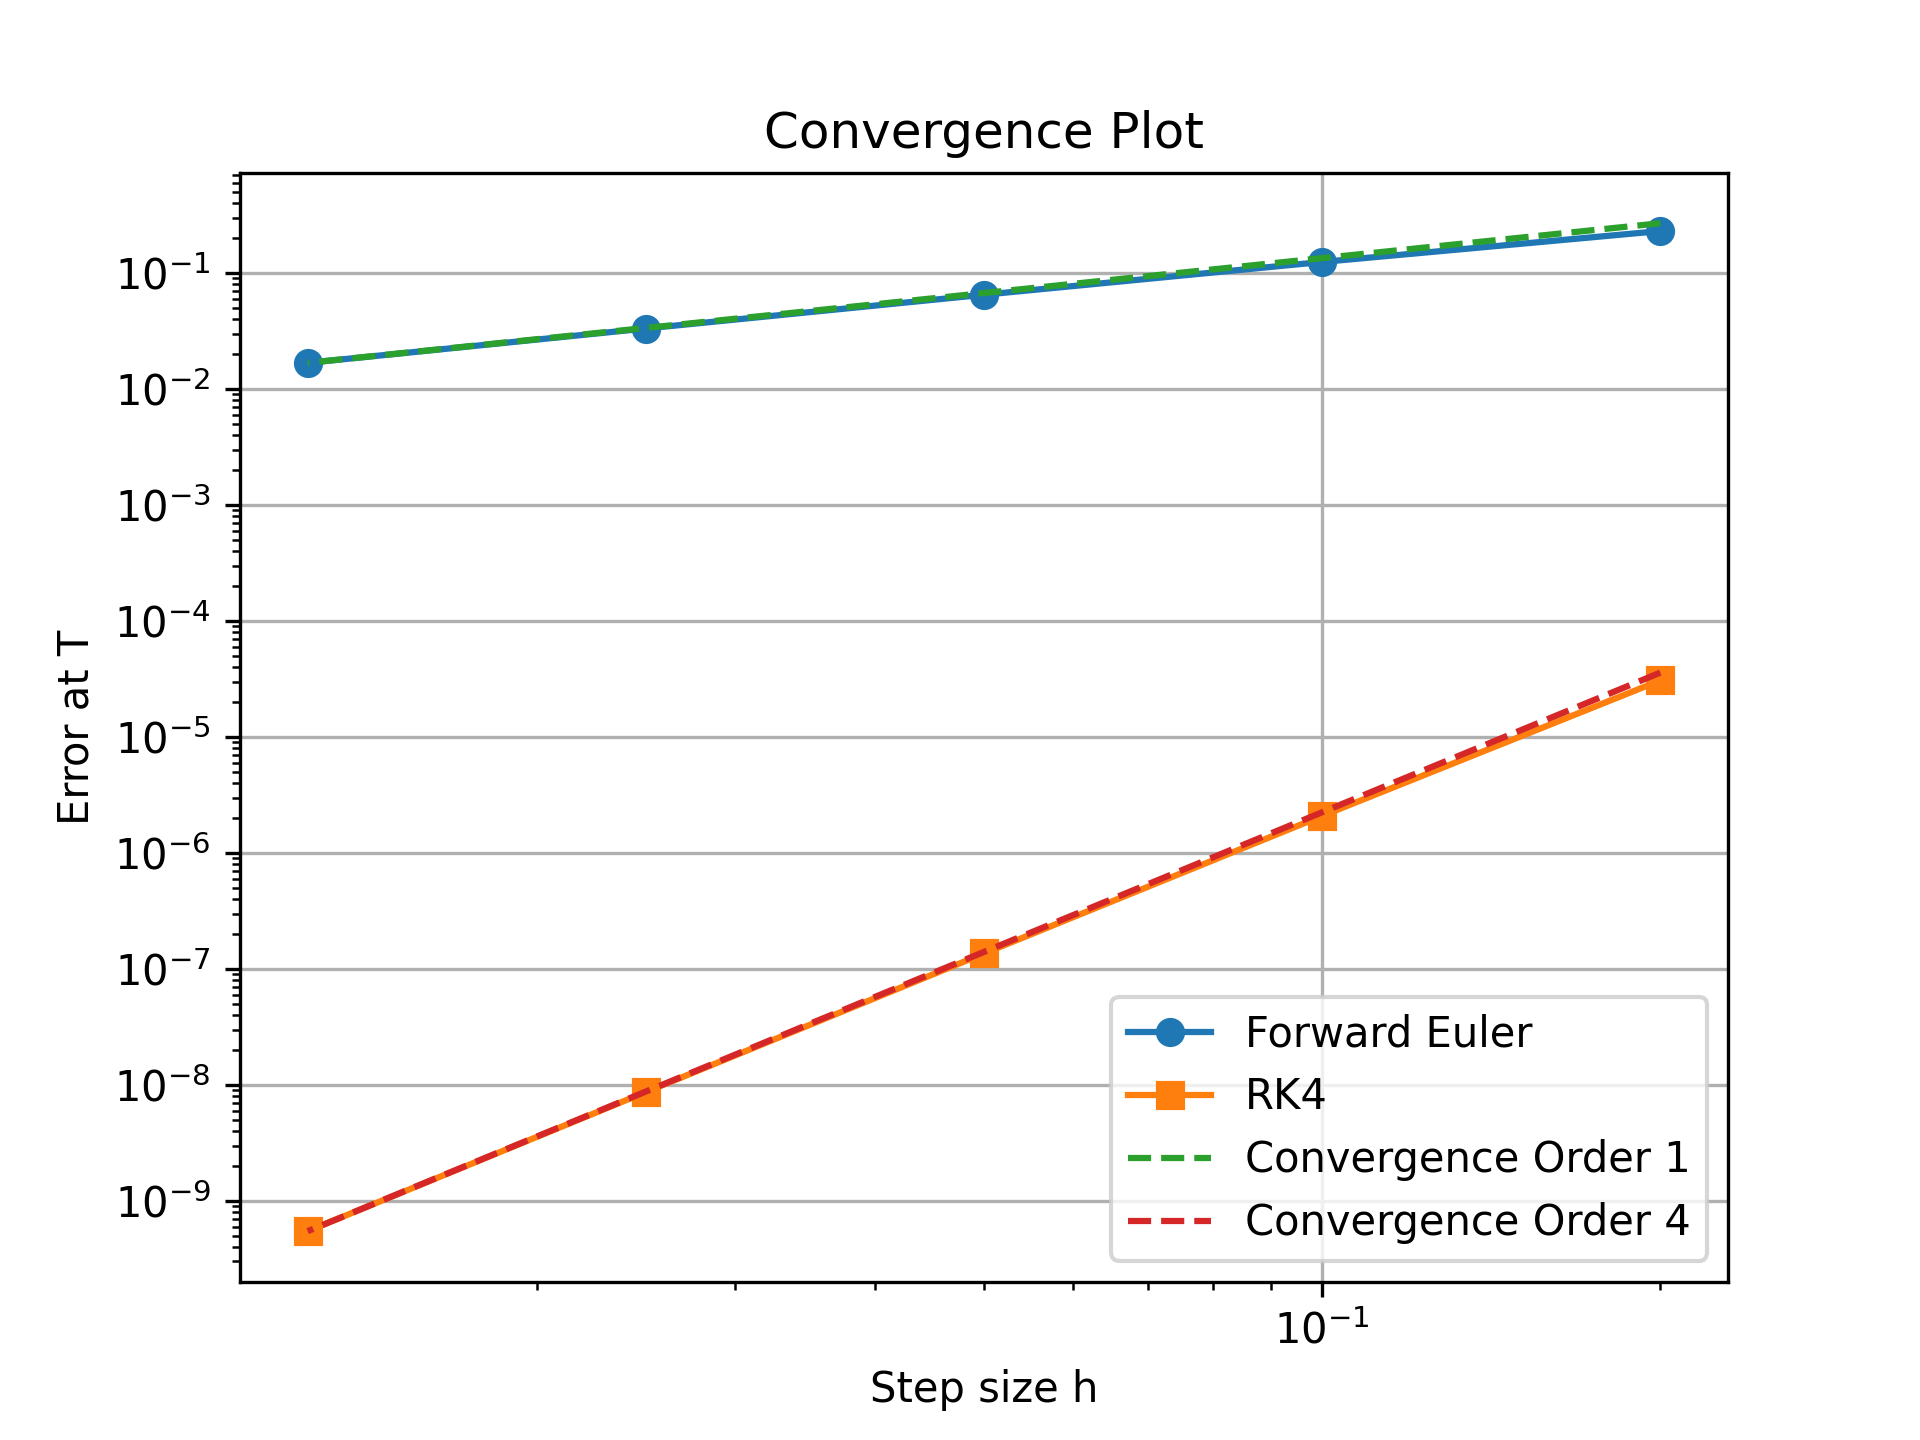
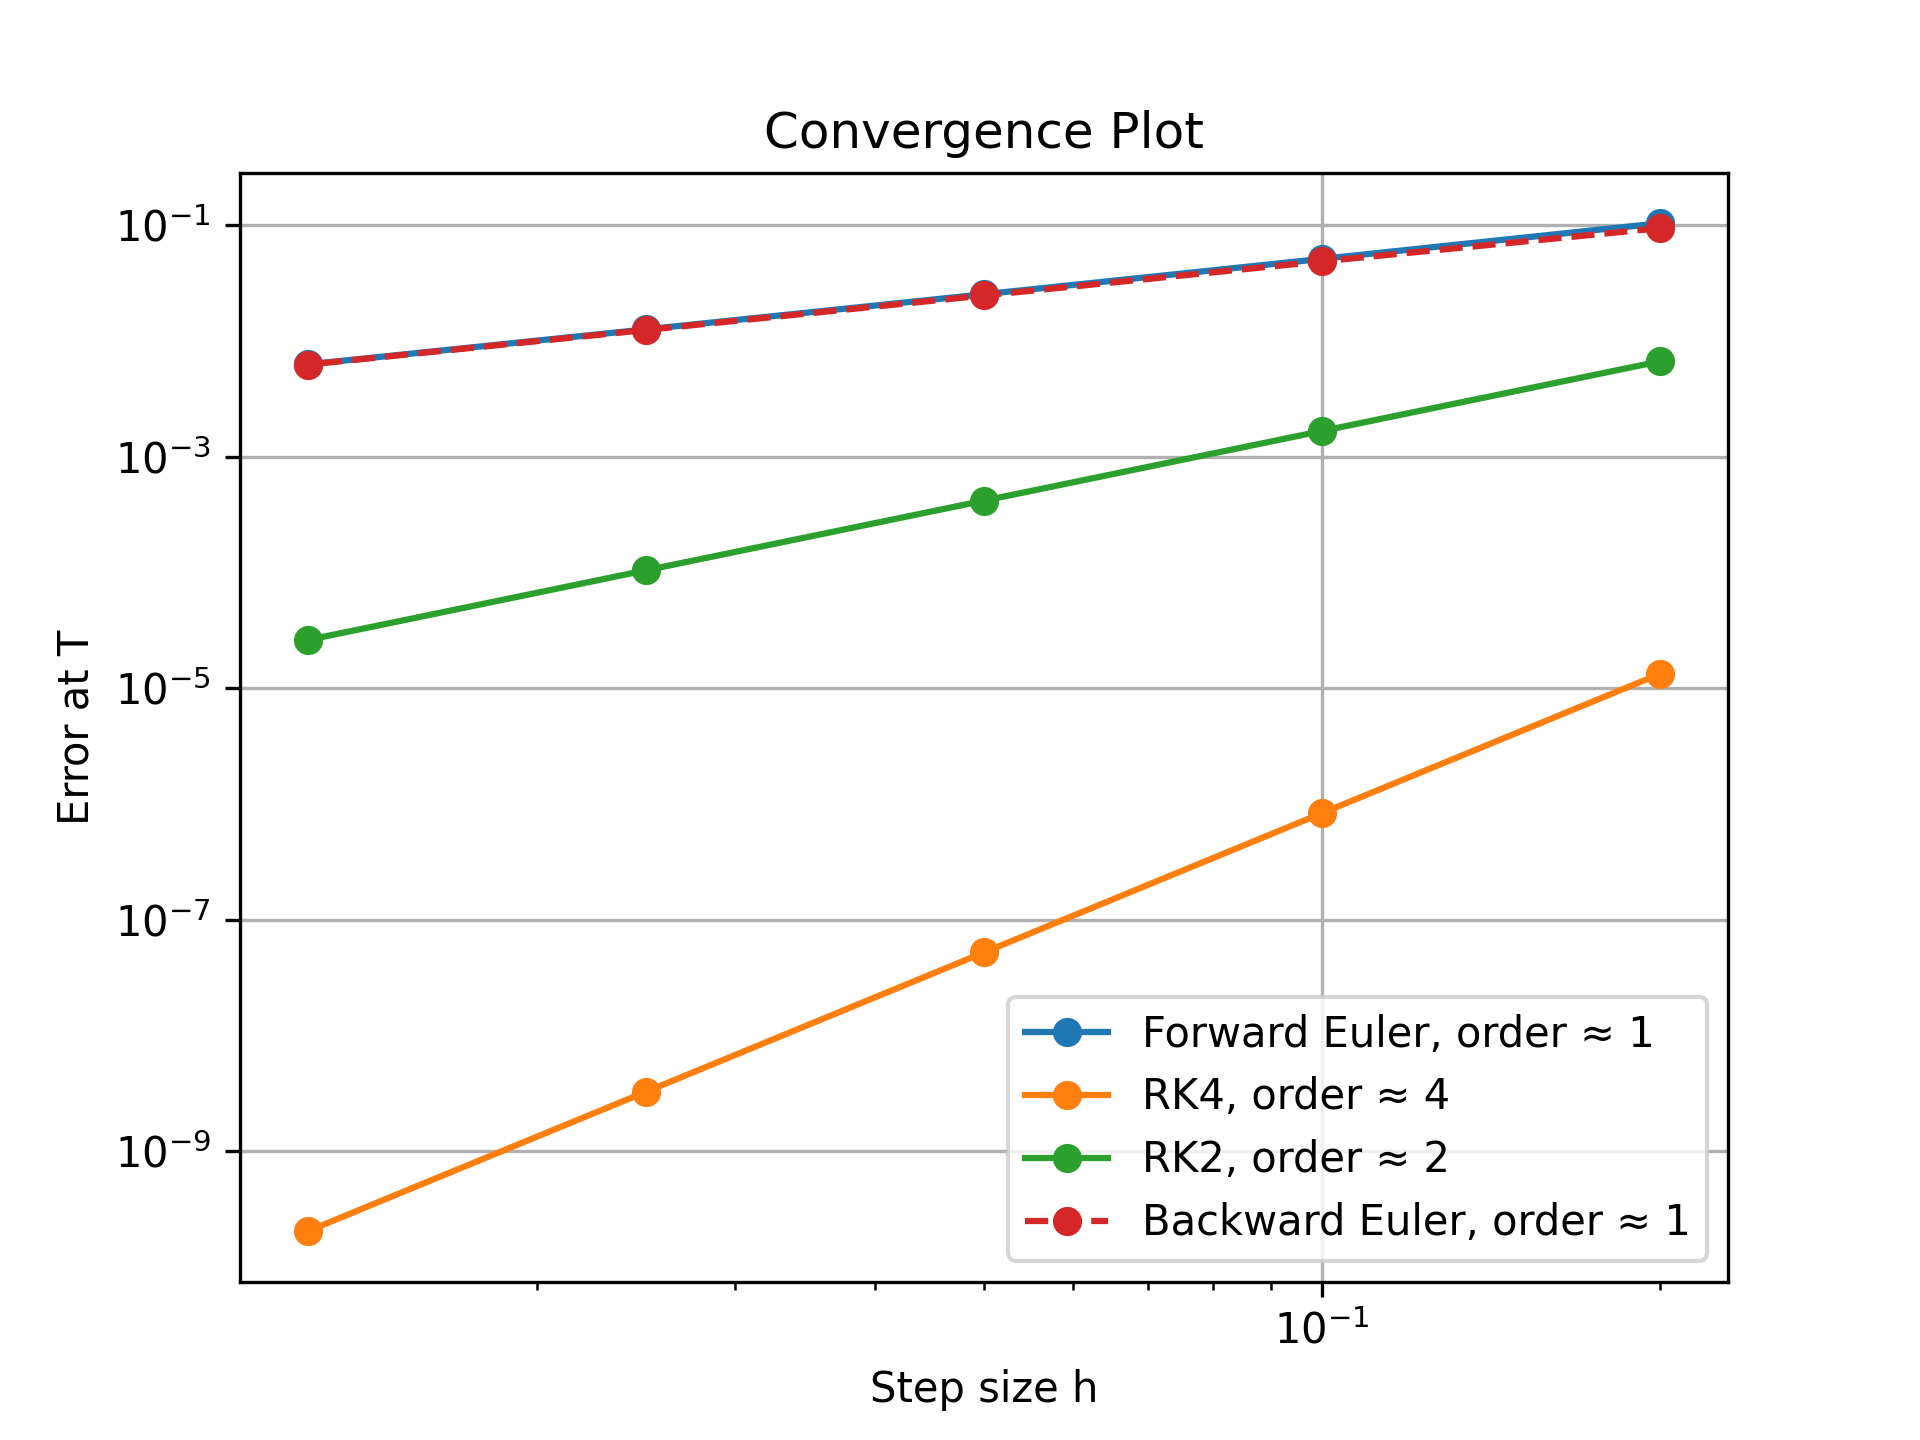
Refactor solvers and added numerical methods
- Refactored solvers for vector systems
- Added RK2 and backward Euler (numerical methods)
- Added harmonic oscillator experiments

diff --git a/main.py b/main.py
@@ -1,51 +1,58 @@
 from convergence import run_convergence
+from solvers import forward_euler, rk4, backward_euler_linear
+from experiments import phase_portraits, energy_plot
 import math
 import matplotlib.pyplot as plt
 import numpy as np
 import os
 
 def f(t,y):
-    return y
+    # Matrix multiplication
+    return A.dot(y)
 
 def exact_solution(t):
-    return math.exp(t)
+    return np.array([math.cos(t), -math.sin(t)])
+
+def convergence_study(fe_errors, rk4_errors, rk2_errors, be_errors):
+    """Convergence Study"""
+    p_fe = []
+    p_rk4 = []
+    p_rk2 = []
+    p_be = []
+
+    for i in range(len(fe_errors)-1):
+        p_fe.append(np.log2(fe_errors[i]/fe_errors[i+1]))
+
+    for i in range(len(rk4_errors)-1):
+        p_rk4.append(np.log2(rk4_errors[i]/rk4_errors[i+1]))
+
+    for i in range(len(rk2_errors)-1):
+        p_rk2.append(np.log2(rk2_errors[i]/rk2_errors[i+1]))
+
+    for i in range(len(be_errors)-1):
+        p_be.append(np.log2(be_errors[i]/be_errors[i+1]))
+
+    return p_fe, p_rk4, p_rk2, p_be
 
 script_dir = os.path.dirname(os.path.abspath(__file__))
 save_path = os.path.join(script_dir, "convergence.png")
 
 t0 = 0
-y0 = 1
+y0 = np.array([1.0, 0.0])
 T = 1
 hs = [0.2, 0.1, 0.05, 0.025, 0.0125]
+A = np.array([[0, 1], [-1, 0]])
 
 # Will not execute unless it is main.py
 if __name__ == "__main__":
-    fe_errors, rk4_errors = run_convergence(f, exact_solution, t0, y0, T, hs)
-
-    print(fe_errors)
-    print(rk4_errors)
-
-    h_ref = hs[-1]
-
-    # Calculating the coefficient for Forward Euler
-    error_ref_fe = fe_errors[-1]
-    p_fe = 1
-    C_fe = error_ref_fe/ (h_ref**p_fe)
-
-    # Calculating the coefficient for RK4
-    error_ref_rk4 = rk4_errors[-1]
-    p_rk4 = 4
-    C_rk4 = error_ref_rk4/ (h_ref**p_rk4)
-
-    # Reference lines
-    fe_reference = [C_fe*i**p_fe for i in hs]
-    rk4_reference = [C_rk4*j**p_rk4 for j in hs]
+    
+    fe_errors, rk4_errors, rk2_errors, be_errors = run_convergence(f, exact_solution, t0, y0, T, hs, A)
 
     # -- Plotting --
-    plt.loglog(hs, fe_errors, "o-", label="Forward Euler")
-    plt.loglog(hs, rk4_errors, "s-", label="RK4")
-    plt.loglog(hs, fe_reference, "--", label="Convergence Order 1")
-    plt.loglog(hs, rk4_reference, "--", label="Convergence Order 4")
+    plt.loglog(hs, fe_errors, "o-", label="Forward Euler, order ≈ 1")
+    plt.loglog(hs, rk4_errors, "o-", label="RK4, order ≈ 4")
+    plt.loglog(hs, rk2_errors, "o-", label="RK2, order ≈ 2")
+    plt.loglog(hs, be_errors, "o--", label="Backward Euler, order ≈ 1")
 
     plt.xlabel("Step size h")
     plt.ylabel("Error at T")
@@ -56,3 +63,19 @@ if __name__ == "__main__":
     plt.savefig(save_path, dpi=300)
     plt.show()
 
+    p_fe, p_rk4, p_rk2, p_be = convergence_study(fe_errors, rk4_errors, rk2_errors, be_errors)
+
+    print("forward euler", p_fe)
+    print("rk4", p_rk4)
+    print("rk2", p_rk2)
+    print("backward euler", p_be)
+
+    h = 0.1
+    T = 100     # We want to check for higher values of time T
+
+    fe_ts, fe_ys = forward_euler(f, t0, y0, h, T)
+    rk4_ts, rk4_ys = rk4(f, t0, y0, h, T)
+    be_ts, be_ys = backward_euler_linear(t0, y0, h, T, A)
+
+    phase_portraits(fe_ys, rk4_ys, be_ys)
+    energy_plot(fe_ts, fe_ys, rk4_ts, rk4_ys, be_ts, be_ys)

diff --git a/solvers.py b/solvers.py
@@ -1,3 +1,5 @@
+import numpy as np
+
 def forward_euler(f, t0, y0, h, T):
     """
     Solves y' = f(t,y) using the Forward Euler method
@@ -24,7 +26,7 @@ def forward_euler(f, t0, y0, h, T):
     for n in range(N+1):    # include the final point T
         
         ts.append(t)
-        ys.append(y)
+        ys.append(y.copy())
 
         if n < N:
             y = y + h*f(t,y)
@@ -58,7 +60,7 @@ def rk4(f, t0, y0, h, T):
     for n in range(N+1):
 
         ts.append(t)
-        ys.append(y)
+        ys.append(y.copy())
 
         if n < N:
             # Compute RK4 stage slopes
@@ -69,6 +71,79 @@ def rk4(f, t0, y0, h, T):
 
             # Weighted average of slopes
             y = y + h/6*(k1+2*k2+2*k3+k4)
+            t = t + h
+
+    return ts, ys
+
+def rk2(f, t0, y0, h, T):
+    """
+    Solves y' = f(t,y) using the Runge-Kutta2 method
+
+    Parameters:
+    f: function defining the ordinary differential equation
+    t0: initial time
+    y0: initial value
+    h: stepsize
+    T: final time
+
+    Returns
+    ts: list of time values
+    ys: list of approximated solution values according to RK2
+    """
+
+    ts = []
+    ys = []
+    t = t0
+    y = y0
+
+    N = int((T-t0)/h)   # number of steps based on time
+    
+    for n in range(N+1):    # include the final point T
+        
+        ts.append(t)
+        ys.append(y.copy())
+
+        if n < N:
+            k1 = f(t,y)
+            k2 = f(t + h/2, y + h/2 * k1)
+            y = y + h * k2
+            t = t + h
+
+    return ts, ys
+
+def backward_euler_linear(t0, y0, h, T, A):
+    """
+    Solves y' = f(t,y) using the Backward Euler method, only works for linear functions
+
+    Parameters:
+    t0: initial time
+    y0: initial value
+    h: stepsize
+    T: final time
+    A: a constant matrix used in f(t,y)
+
+    Returns
+    ts: list of time values
+    ys: list of approximated solution values according to Backward Euler
+    """
+
+    ts = []
+    ys = []
+    t = t0
+    y = y0
+
+    I = np.identity(len(y0))
+    M = I - h*A        # constant matrix
+
+    N = int((T-t0)/h)   # number of steps based on time
+    
+    for n in range(N+1):    # include the final point T
+        
+        ts.append(t)
+        ys.append(y.copy())     
+
+        if n < N:
+            y = np.linalg.solve(M, y)
             t = t + h
 
     return ts, ys

diff --git a/experiments.py b/experiments.py
@@ -1,0 +1,76 @@
+import matplotlib.pyplot as plt
+import numpy as np
+import os
+
+def phase_portraits(fe_ys, rk4_ys, be_ys):
+    """ Phase Portraits """
+    # y1 vs y2
+    y1_fe = [y[0] for y in fe_ys]
+    y2_fe = [y[1] for y in fe_ys]
+
+    y1_rk4 = [y[0] for y in rk4_ys]
+    y2_rk4 = [y[1] for y in rk4_ys]
+
+    y1_be = [y[0] for y in be_ys]
+    y2_be = [y[1] for y in be_ys]
+
+    plt.figure(figsize=(10,4))
+    plt.subplot(1,2,1)
+    plt.plot(y1_fe, y2_fe, label="Forward Euler")
+    plt.axis("equal")
+    plt.xlabel("y1")
+    plt.ylabel("y2")
+    plt.title("Phase Portrait FE")
+    plt.legend()
+
+    plt.subplot(1,2,2)
+    plt.plot(y1_rk4, y2_rk4, label="RK4")
+    plt.plot(y1_be, y2_be, label="Backward Euler")
+
+    plt.axis("equal")
+    plt.xlabel("y1")
+    plt.ylabel("y2")
+    plt.title("Phase Portrait RK4 vs BE")
+    plt.legend()
+
+    plt.savefig(save_path_phase_portraits, dpi=300)
+    plt.show()
+
+def energy_plot(fe_ts, fe_ys, rk4_ts, rk4_ys, be_ts, be_ys):
+    """ Energy Plot """
+    energy_fe = []
+    energy_rk4 = []
+    energy_be = []
+
+    for y in fe_ys:
+        E = y[0]**2 + y[1]**2
+        energy_fe.append(E)
+
+    for y in rk4_ys:
+        E = y[0]**2 + y[1]**2
+        energy_rk4.append(E)
+
+    for y in be_ys:
+        E = y[0]**2 + y[1]**2
+        energy_be.append(E)
+
+    plt.plot(fe_ts, energy_fe, label="Energy Forward Euler")
+    plt.plot(rk4_ts, energy_rk4, label="Energy RK4")
+    plt.plot(be_ts, energy_be, label="Energy Backward Euler")
+
+    plt.yscale("log")
+    plt.xlabel("time")
+    plt.ylabel("Energy")
+    plt.title("Energy Plot")
+    plt.legend()
+
+    plt.savefig(save_path_energy_plot, dpi=300)
+    plt.show()
+
+script_dir = os.path.dirname(os.path.abspath(__file__))
+save_path_phase_portraits = os.path.join(script_dir, "phase_portraits.png")
+save_path_energy_plot = os.path.join(script_dir, "energy_plot.png")
+
+
+
+

diff --git a/convergence.py b/convergence.py
@@ -1,16 +1,24 @@
 # Imports forward_euler and rk4 from solvers.py
-from solvers import forward_euler, rk4
+from solvers import forward_euler, rk4, rk2, backward_euler_linear
+import numpy as np
 
-def run_convergence(f, exact_solution, t0, y0, T, hs):
-    
+def run_convergence(f, exact_solution, t0, y0, T, hs, A):
+    # List of convergence errors for different solvers
+
     fe_errors = []
     rk4_errors = []
+    rk2_errors = []
+    be_errors = []
 
     for h in hs:
         _, ys_fe = forward_euler(f, t0, y0, h, T)
         _, ys_rk4 = rk4(f, t0, y0, h, T)
+        _, ys_rk2 = rk2(f, t0, y0, h, T)
+        _, ys_be = backward_euler_linear(t0, y0, h, T, A)
 
-        fe_errors.append(abs(ys_fe[-1] - exact_solution(T)))
-        rk4_errors.append(abs(ys_rk4[-1] - exact_solution(T)))
+        fe_errors.append(np.linalg.norm(ys_fe[-1] - exact_solution(T)))
+        rk4_errors.append(np.linalg.norm(ys_rk4[-1] - exact_solution(T)))
+        rk2_errors.append(np.linalg.norm(ys_rk2[-1] - exact_solution(T)))
+        be_errors.append(np.linalg.norm(ys_be[-1] - exact_solution(T)))
 
-    return fe_errors, rk4_errors
+    return fe_errors, rk4_errors, rk2_errors, be_errors
